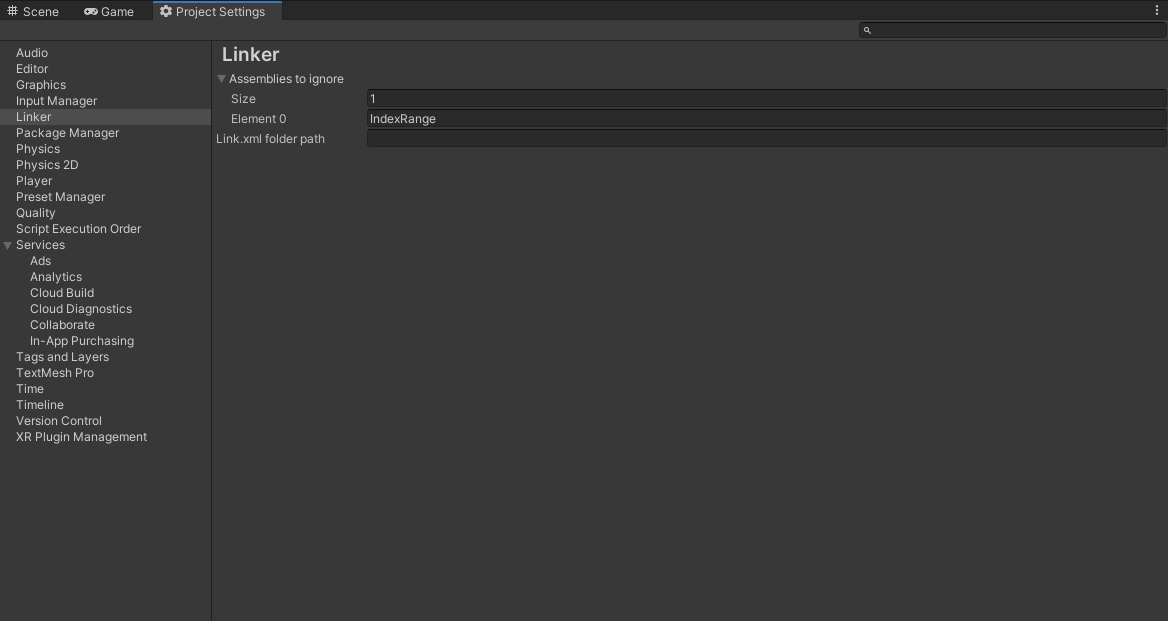
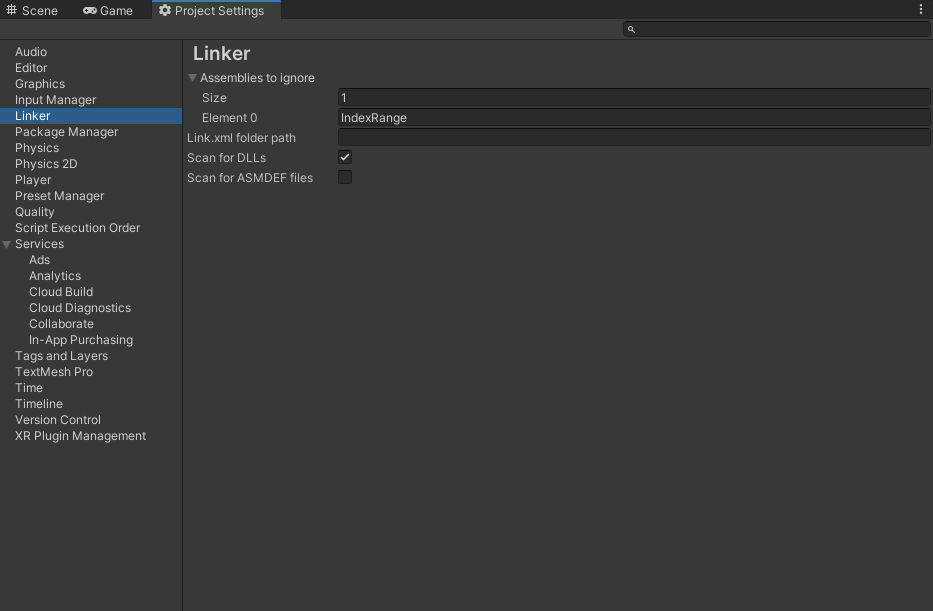
Update readme

diff --git a/README.md b/README.md
@@ -4,7 +4,7 @@ An editor utility which will generate a link.xml file with the press of a button
 
 ![Window Menu](/.github/images/WindowMenu.png)
 
-The plugin will enumerate all .dll files in you Assets folder and generate a link.xml file which will preserve all of them.
+The plugin can find all added dlls and compiled scripting assemblies and generate a link.xml file which will preserve all of them.
 
 You can customize the generation in the project settings
 
